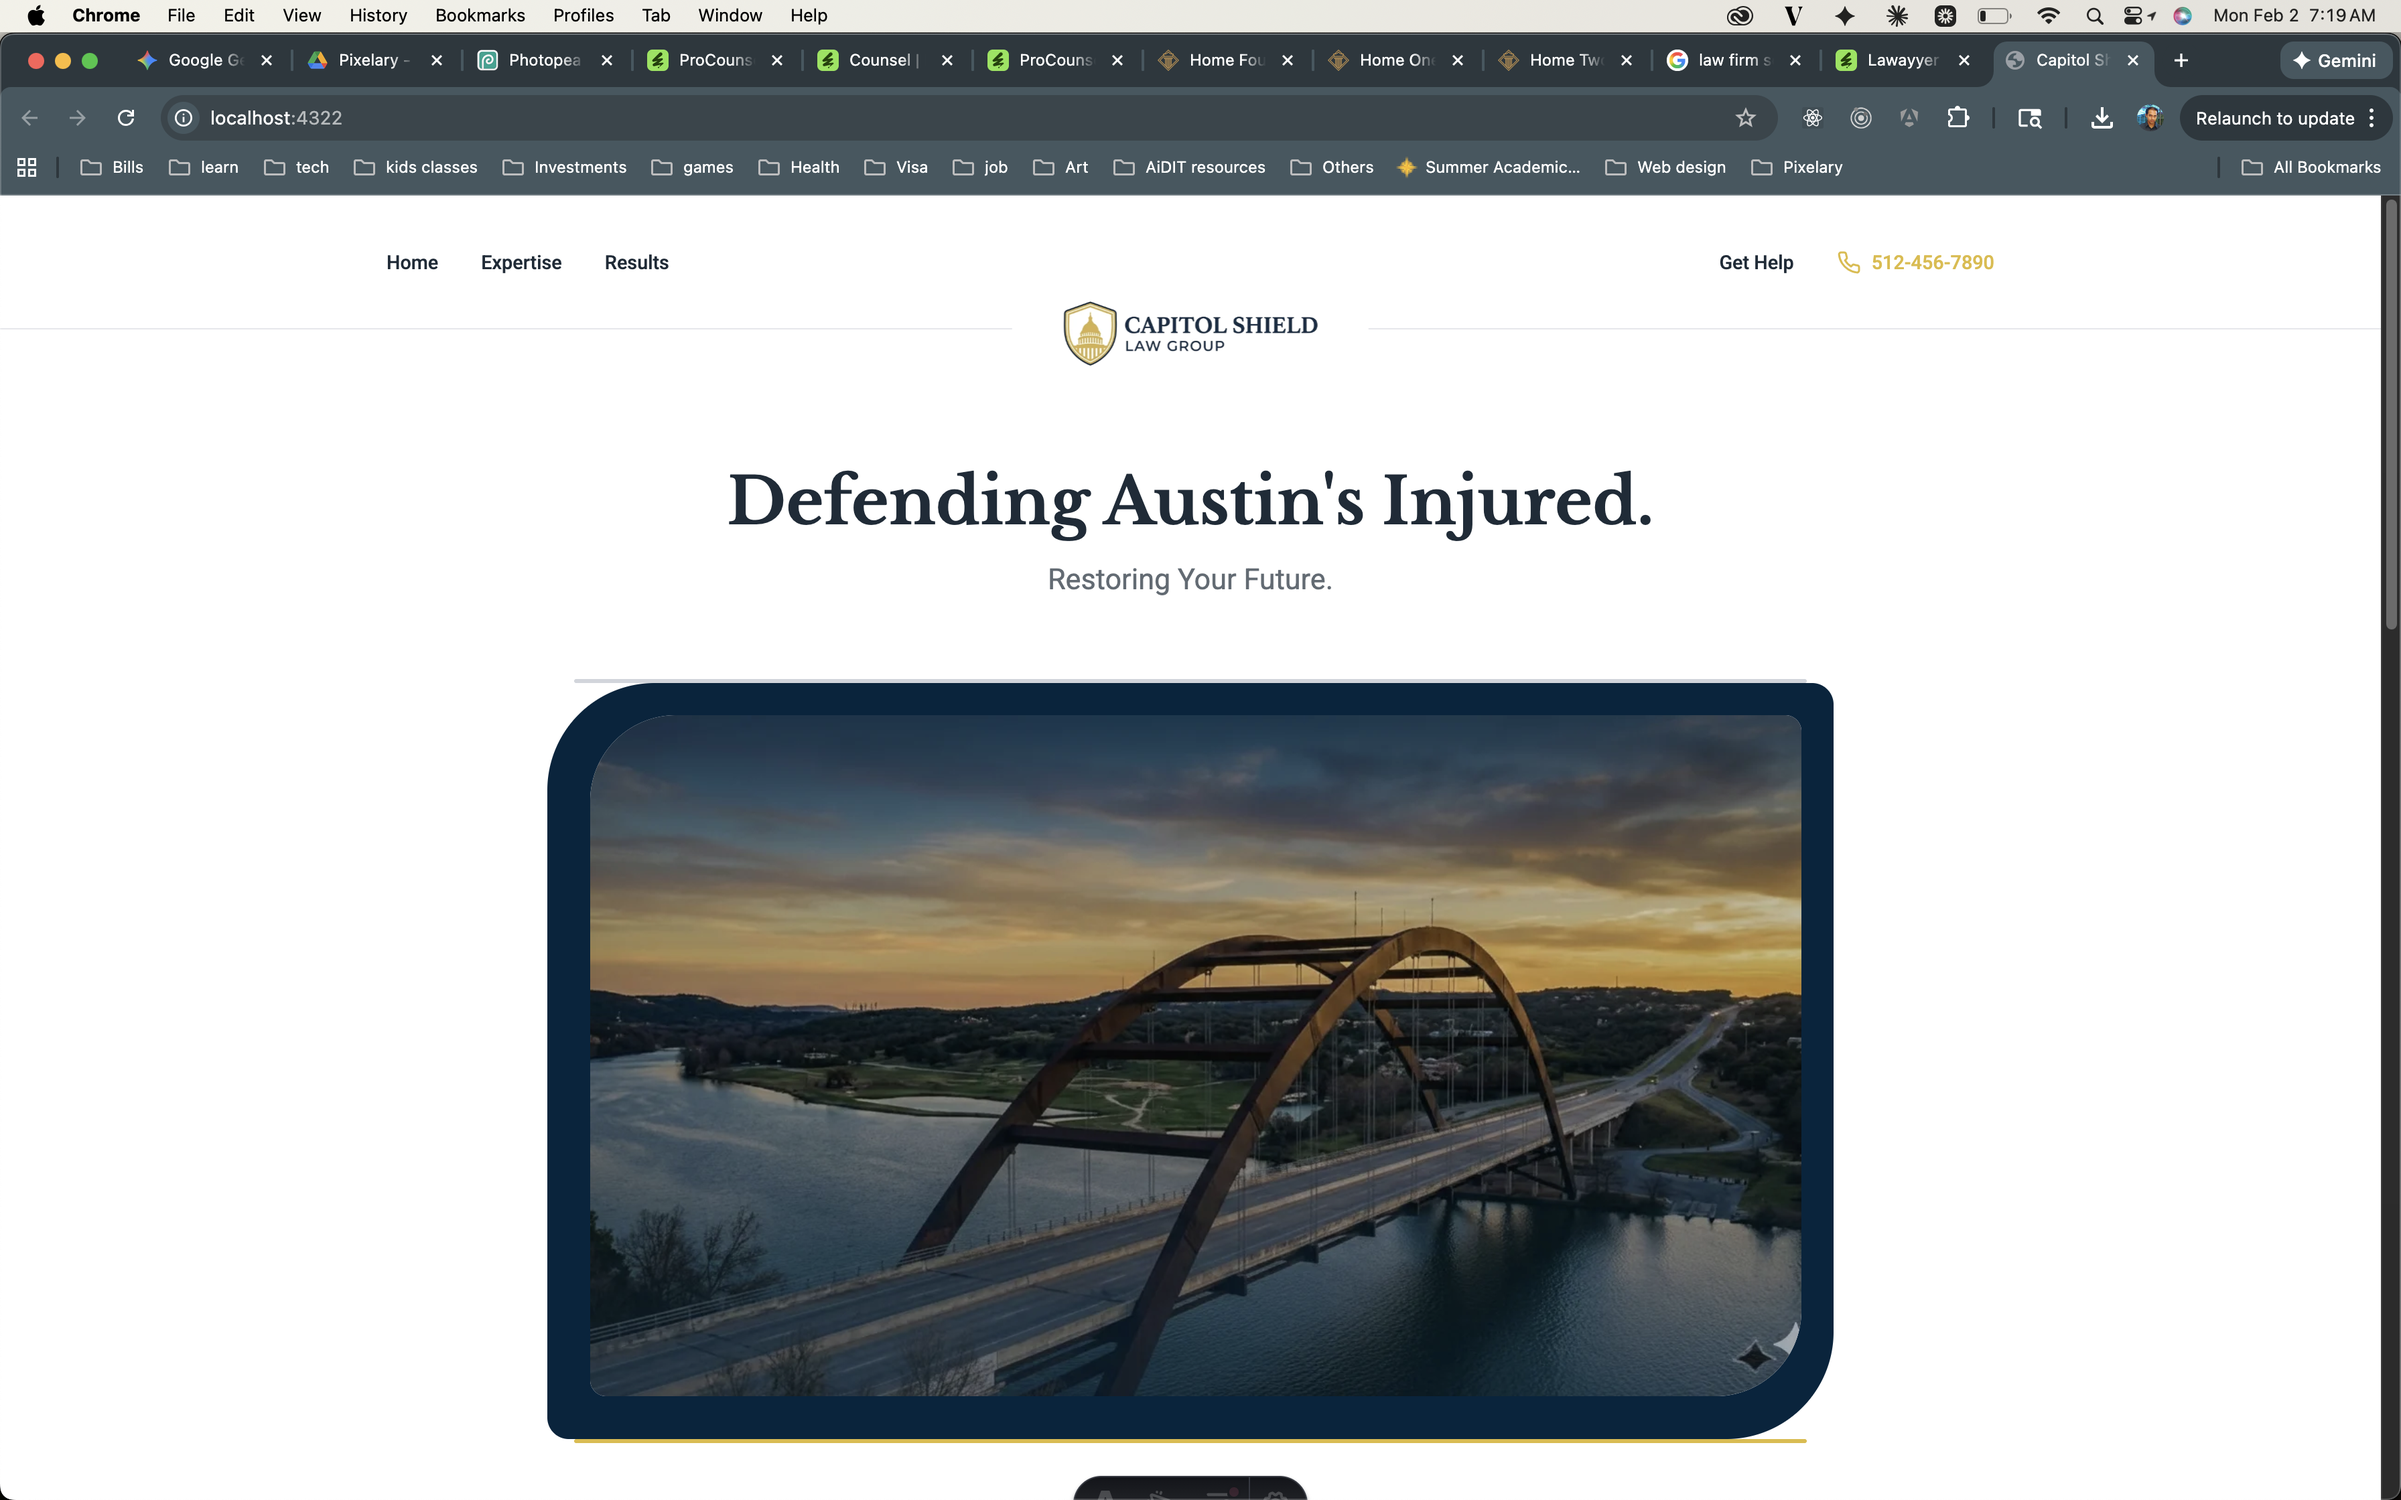
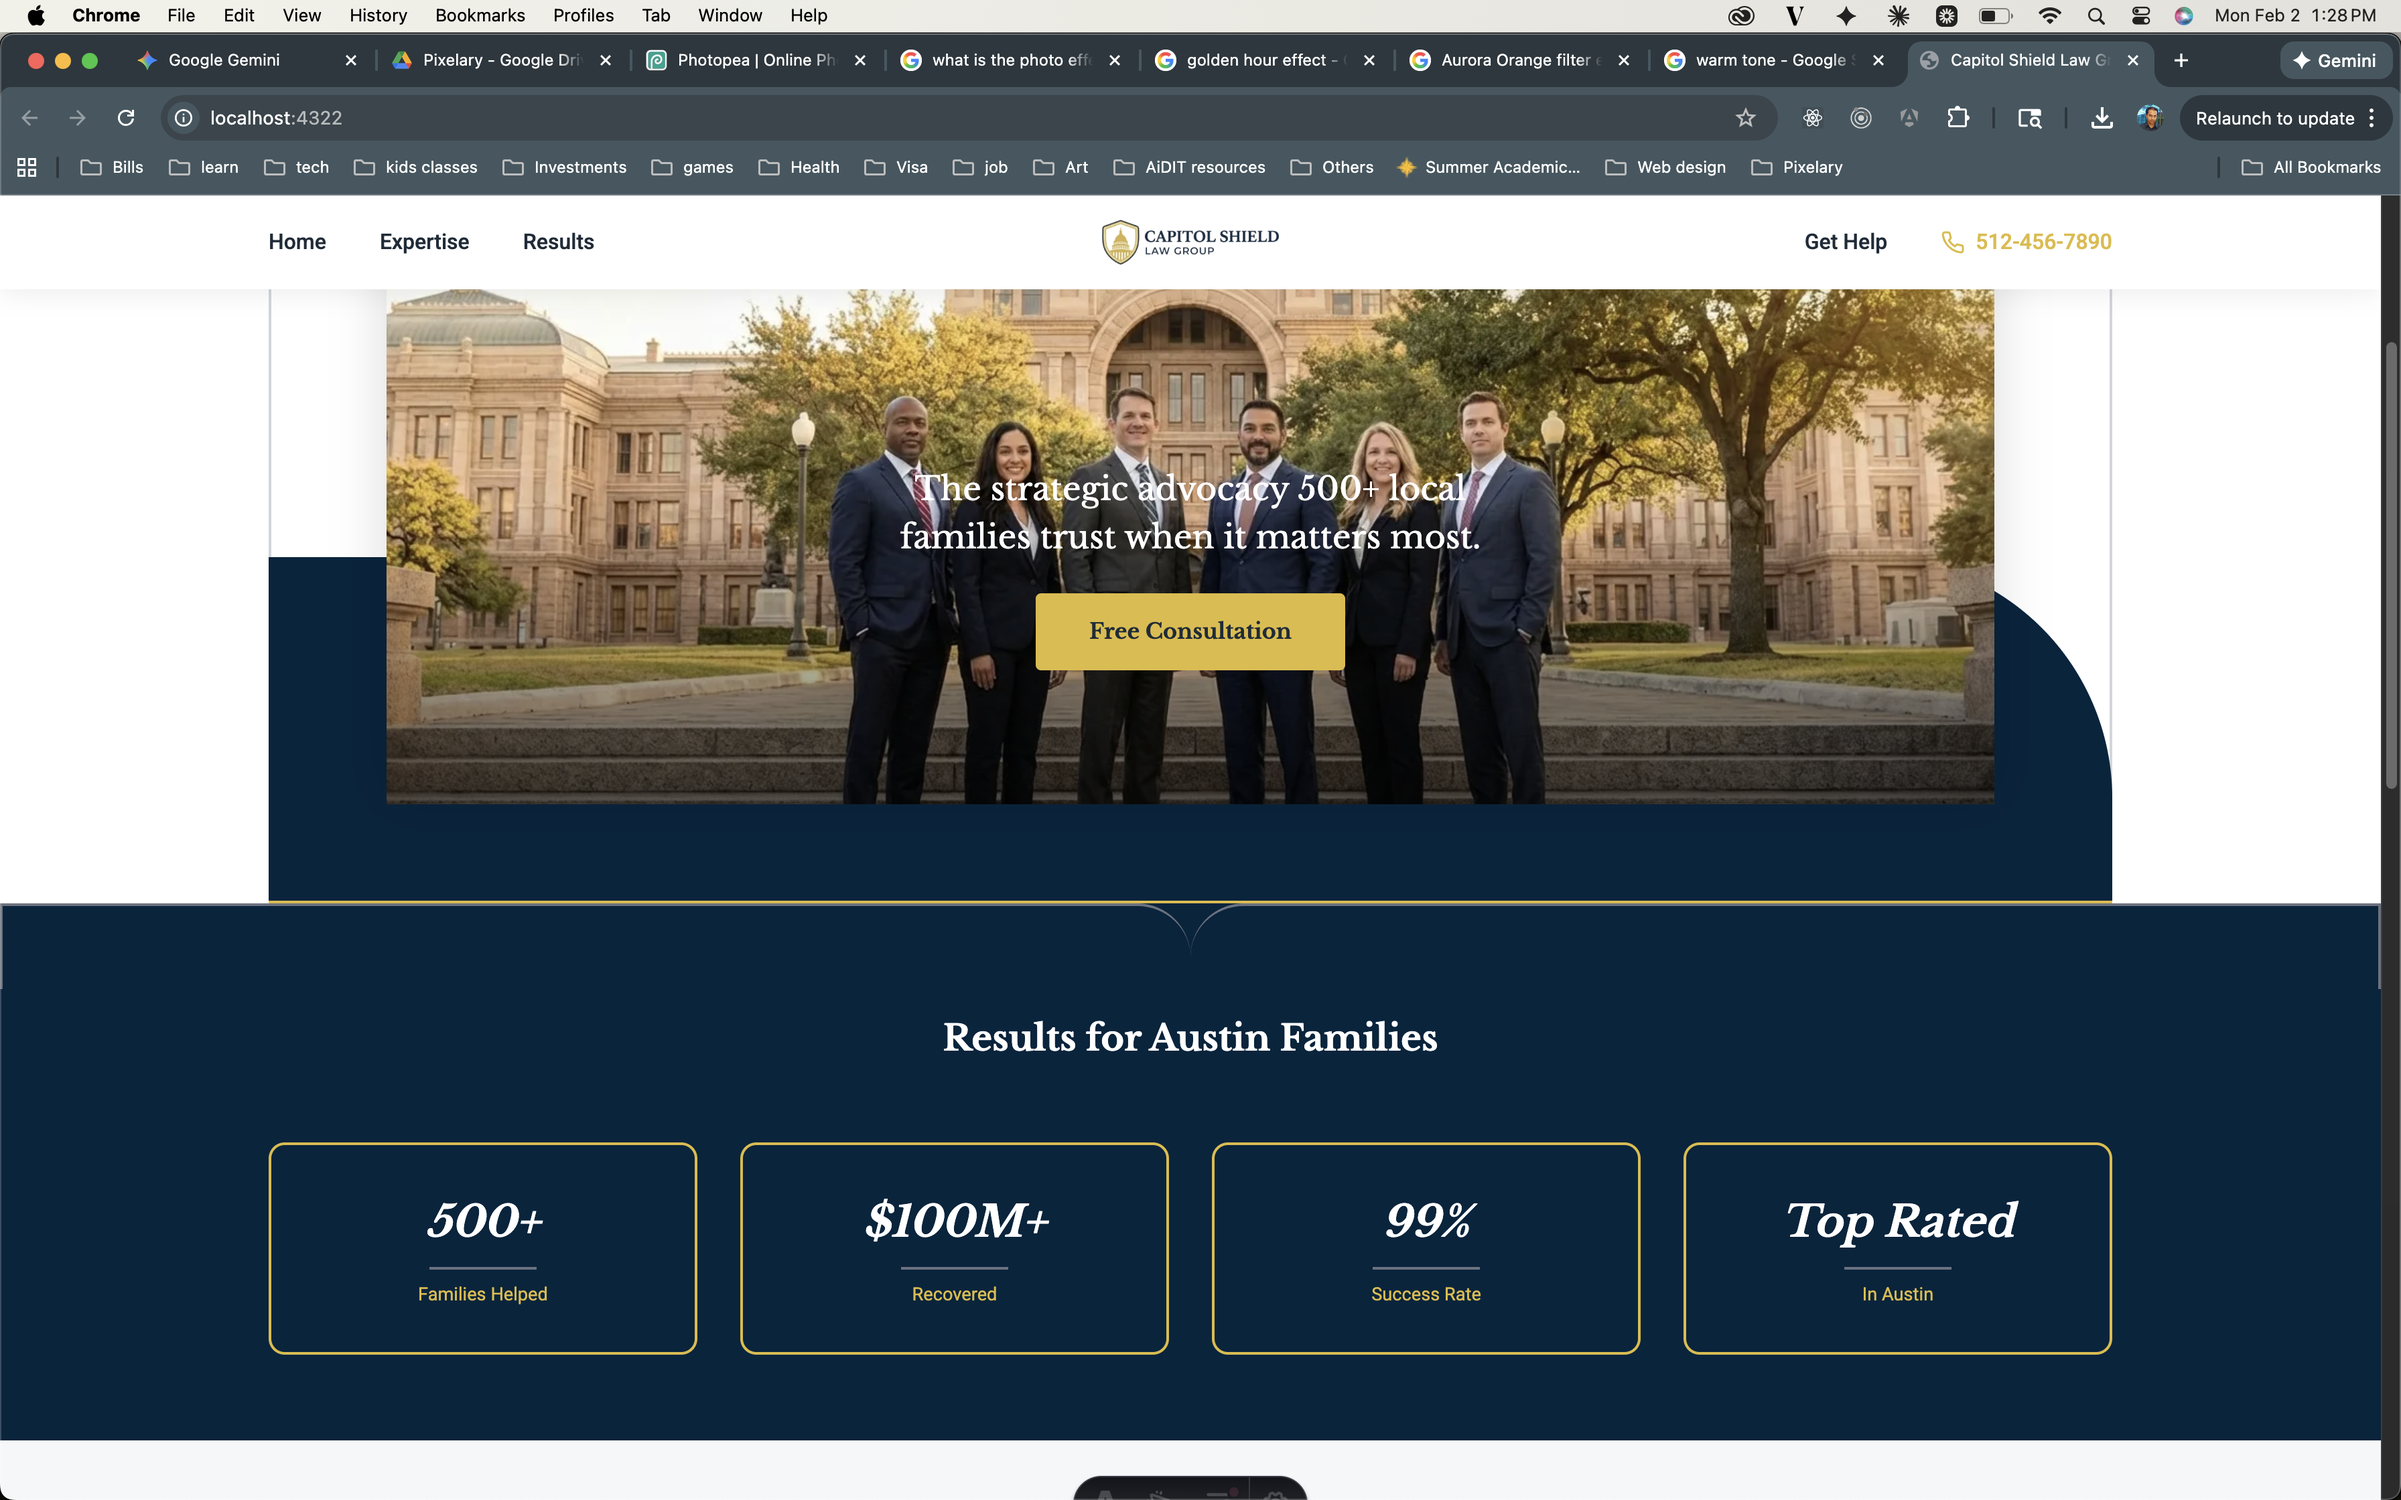
badges and hero done

diff --git a/TODO.md b/TODO.md
@@ -1,0 +1,2 @@
+1. fix hero overlay text
+2. add md and sm versions for hero image
